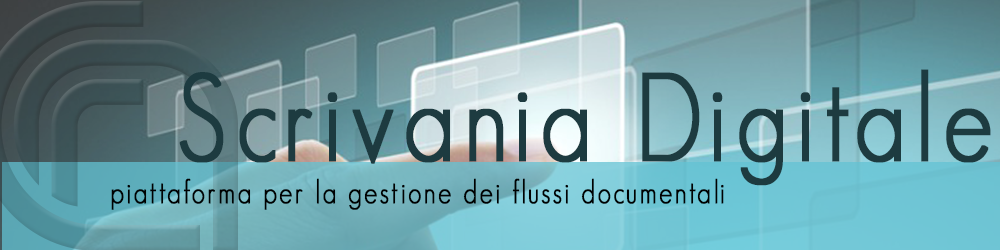
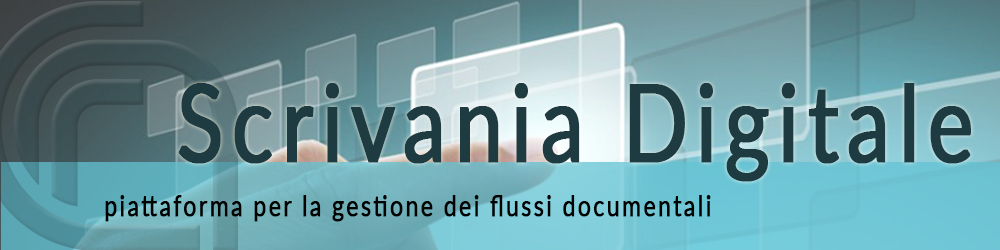
modifiche minori
git-svn-id: svn+ssh://svnselezioni.si.cnr.it/DATA/svnroot/svn-documentale/branches/development/cool-no-surf@6063 18059cec-d5c9-4679-bb3d-60c028e053f1

Changed region(s): [[0.093, 0.28, 0.992, 0.896], [0.155, 0.28, 0.589, 0.672]]

diff --git a/cool-webapp/cool-flows/src/main/resources/META-INF/ng/app/scripts/filters/filters.js b/cool-webapp/cool-flows/src/main/resources/META-INF/ng/app/scripts/filters/filters.js
@@ -38,9 +38,13 @@ angular.module('flowsApp')
   .filter('priority', function () {
     return function (priority) {
       var m = {
+        'priority-2': {
+          label: 'normale',
+          cssClass: 'label label-success'
+        },
         'priority-3': {
           label: 'importante',
-          cssClass: 'label label-primary'
+          cssClass: 'label label-warning'
         },
         'priority-5': {
           label: 'critico',

diff --git a/cool-webapp/cool-flows/src/main/resources/META-INF/ng/app/index.html b/cool-webapp/cool-flows/src/main/resources/META-INF/ng/app/index.html
@@ -44,8 +44,7 @@
         </div>
 
         <div class="row banner text-center">
-            <h1>Scrivania digitale</h1>
-            <h2>piattaforma per la gestione dei flussi documentali</h2>
+            <img src="../images/scrivania-digitale-banner.png">
         </div>
 
         <nav class="row navbar" role="navigation" ng-controller="NavbarCtrl" ng-show="user">
